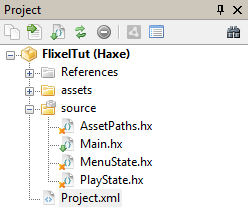
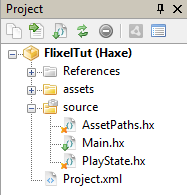
Update for flixel-templates 2.3.0

Changed region(s): [[0.0, 0.0, 1.0, 1.0]]

diff --git a/documentation/01_tutorial/04-3-groundwork.html.md b/documentation/01_tutorial/04-3-groundwork.html.md
@@ -16,17 +16,18 @@ So, what does that all actually translate to in HaxeFlixel?
 
 We'll tackle each of these things one-by-one.
 
-First up, let's get our player from the `MenuState` to our `PlayState`. Eventually, we'll want a fancy `MenuState` with a button for options, but for right now, we'll just have a button that says "Play" and switches to our `PlayState`.
+First up, let's create a simple menu. Eventually, we'll want a fancy `MenuState` with a button for options, but for right now, we'll just have a button that says "Play" and switches to our `PlayState`.
 
 1. Go ahead and delete the line we added for our "Hello World" test within the `PlayState`.
 
-	Next, go up to the top of the class within `MenuState` - right under where it says:
+	Now, create a file named `MenuState.hx` in the same directory as `PlayState.hx` (`Right Click -> Add -> New Empty File...`). Then, you can just copy the content of `PlayState.hx` over (but replace the class name with `MenuState`):
 
 	```haxe
 	class MenuState extends FlxState
+	{
 	```
 
-	We're going define a new variable. This is where you would define all the variables that you intend to use throughout a given class. We need to define a new `FlxButton` variable to use as our 'play' button. So, type:
+	Right after the class declaration, we're going define a new variable. This is where you would define all the variables that you intend to use throughout a given class. We need to define a new `FlxButton` variable to use as our 'play' button. So, type:
 
 	```haxe
 	private var _btnPlay:FlxButton;

diff --git a/documentation/01_tutorial/03-2-creating-a-new-project.html.md b/documentation/01_tutorial/03-2-creating-a-new-project.html.md
@@ -24,7 +24,7 @@ Now we want to make sure that everything is installed properly - and we want to 
 5. Next, let's make sure that our project builds and runs properly. By default, a fresh, new Flixel template project will launch the game in the `PlayState`. So go ahead and double-click to open that file from the project list.
 	This file is a very basic (and empty) example of a `FlxState` subclass. You can think of `FlxState`s a little bit like 'scenes'. When your game is running, one - and only one - state will be the active state. Anything 'added' to that state will be visible and accessible by the player, and, for the most part, will be segregated from other states in your game.
 
-	They are great for having different sections of your game that are sort of in a bubble from one another, such as the `MenuState` and the `PlayState` (where the game is actually played).
+	They are great for having different sections of your game that are sort of in a bubble from one another, such as a `MenuState` (which we will add later) and the `PlayState` (where the game is actually played).
 
 	You'll see that, at least for now, the `PlayState` only has two functions in it: `create()` and `update()`. When a state is loaded, its `create()` function is called. This is where you want to initialize all of the things in your state.
 

diff --git a/documentation/00_getting_started/02-hello-world.html.md b/documentation/00_getting_started/02-hello-world.html.md
@@ -23,12 +23,7 @@ Adding the text is as simple as opening the `PlayState.hx` file in the newly cre
 ``` haxe
 package;
 
-import flixel.FlxG;
-import flixel.FlxSprite;
 import flixel.FlxState;
-import flixel.text.FlxText;
-import flixel.ui.FlxButton;
-import flixel.math.FlxMath;
 
 class PlayState extends FlxState
 {
@@ -47,7 +42,7 @@ class PlayState extends FlxState
 All you need to do is add the following three lines to the `create()` function (and save the file):
 
 ``` haxe
-var text = new FlxText(0, 0, 0, "Hello World", 64);
+var text = new flixel.text.FlxText(0, 0, 0, "Hello World", 64);
 text.screenCenter();
 add(text);
 ```
